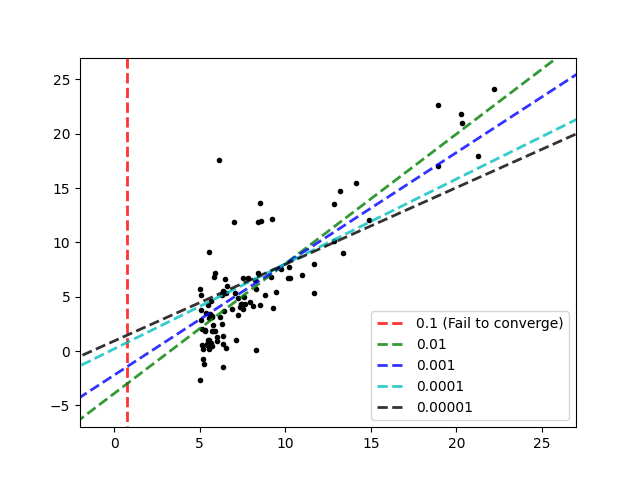
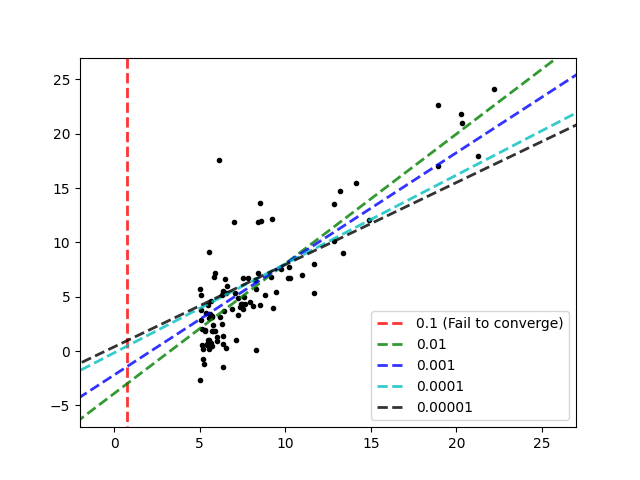
hw02

diff --git a/homeworks/homework02/homework02_code/homework02_question3.py b/homeworks/homework02/homework02_code/homework02_question3.py
@@ -1,0 +1,38 @@
+import numpy as np
+import matplotlib.pyplot as plt
+
+with open('ex1data1.txt', 'r') as f:
+    lines = f.readlines()
+
+x = []
+y = []
+for line in lines:
+    line1 = line.strip('\n')
+    f1, f2 = line1.split(',')
+    x.append(float(f1))
+    y.append(float(f2))
+
+
+x = np.array(x)
+y = np.array(y)
+y = y[:, None]
+
+A = np.ones((len(x), 2), dtype=float)
+A[:, 1] = x
+
+AT = A.T
+AT_A = np.matmul(AT, A)
+AT_A_inv = np.linalg.inv(AT_A)
+
+ATA1AT = np.matmul(AT_A_inv, AT)
+theta = np.matmul(ATA1AT, y)
+
+xlist = np.linspace(0, 25, 1000)
+newA = np.ones((len(xlist), 2), dtype=float)
+newA[:, 1] = xlist
+ylist = np.matmul(newA, theta)
+
+plt.plot(xlist, ylist, 'r--', alpha=0.8)
+plt.scatter(x, y, marker='.', color='k')
+plt.savefig('homework02_question3.png')
+plt.show()

diff --git a/homeworks/homework02/homework02_code/homework02_question4.py b/homeworks/homework02/homework02_code/homework02_question4.py
@@ -21,6 +21,7 @@ step_sizes = [
     0.0001,
     0.00001,
 ]
+MAX_ITERATION = 5000
 
 last_time_theta0 = 0
 last_time_theta1 = 0
@@ -56,13 +57,8 @@ thetas = []
 for step_size in step_sizes:
     theta0 = random.random()
     theta1 = random.random()
-    # theta0 = 0
-    # theta1 = 0
-    counter = 0
-    while True:
-        counter = counter + 1
-        if counter >= 5000:
-                break
+
+    for _ in range(MAX_ITERATION):
         accumulating_theta0 = 0
         accumulating_theta1 = 0
         for i in range(len(x)):
@@ -106,6 +102,7 @@ for i in range(len(thetas)):
 plt.scatter(x, y, marker='.', color='k')
 plt.axis([-2, 27, -7, 27])
 plt.legend(loc='lower right')
+plt.savefig('homework02_question4.png')
 plt.show()
 
 

diff --git a/homeworks/homework02/homework02_code/homework02_question1.py b/homeworks/homework02/homework02_code/homework02_question1.py
@@ -1,0 +1,30 @@
+import gurobipy as gp
+from gurobipy import GRB
+
+m = gp.Model("lp1")
+m.Params.DualReductions = 0
+x1 = m.addVar(name="x1")
+x2 = m.addVar(name="x2")
+
+m.setObjective(x1 + x2, GRB.MAXIMIZE)
+
+m.addConstr(x1 - x2 >= 0, "c1")
+m.addConstr(- 3 * x1 + x2 >= 3, "c2")
+m.addConstr(x1 >= 0, "c3")
+m.addConstr(x2 >= 0, "c4")
+
+
+m.optimize()
+
+if m.status == GRB.OPTIMAL:
+    print('Optimal solution found')
+else:
+    print('Optimal solution NOT found')
+
+try:
+    for v in m.getVars():
+        print(f'{v.VarName} {v.x}')
+
+    print(f"Obj: {m.objVal}")
+except Exception as error:
+    print(error)

diff --git a/homeworks/homework02/homework02_code/homework02_question2.py b/homeworks/homework02/homework02_code/homework02_question2.py
@@ -1,0 +1,29 @@
+import gurobipy as gp
+from gurobipy import GRB
+
+m = gp.Model("lp1")
+m.Params.DualReductions = 0
+x1 = m.addVar(name="x1")
+x2 = m.addVar(name="x2")
+
+m.setObjective(3 * x1 + 2 * x2, GRB.MAXIMIZE)
+
+m.addConstr(x1 - x2 <= 1, "c1")
+m.addConstr(x1 + x2 >= 3, "c2")
+m.addConstr(x1 >= 0, "c3")
+m.addConstr(x2 >= 0, "c4")
+
+m.optimize()
+
+if m.status == GRB.OPTIMAL:
+    print('Optimal solution found')
+else:
+    print('Optimal solution NOT found')
+
+try:
+    for v in m.getVars():
+        print(f'{v.VarName} {v.x}')
+
+    print(f"Obj: {m.objVal}")
+except Exception as error:
+    print(error)

diff --git a/homeworks/homework02/homework02_question4.py b/homeworks/homework02/homework02_question4.py
@@ -21,6 +21,7 @@ step_sizes = [
     0.0001,
     0.00001,
 ]
+MAX_ITERATION = 5000
 
 last_time_theta0 = 0
 last_time_theta1 = 0
@@ -56,13 +57,8 @@ thetas = []
 for step_size in step_sizes:
     theta0 = random.random()
     theta1 = random.random()
-    # theta0 = 0
-    # theta1 = 0
-    counter = 0
-    while True:
-        counter = counter + 1
-        if counter >= 5000:
-                break
+
+    for _ in range(MAX_ITERATION):
         accumulating_theta0 = 0
         accumulating_theta1 = 0
         for i in range(len(x)):
